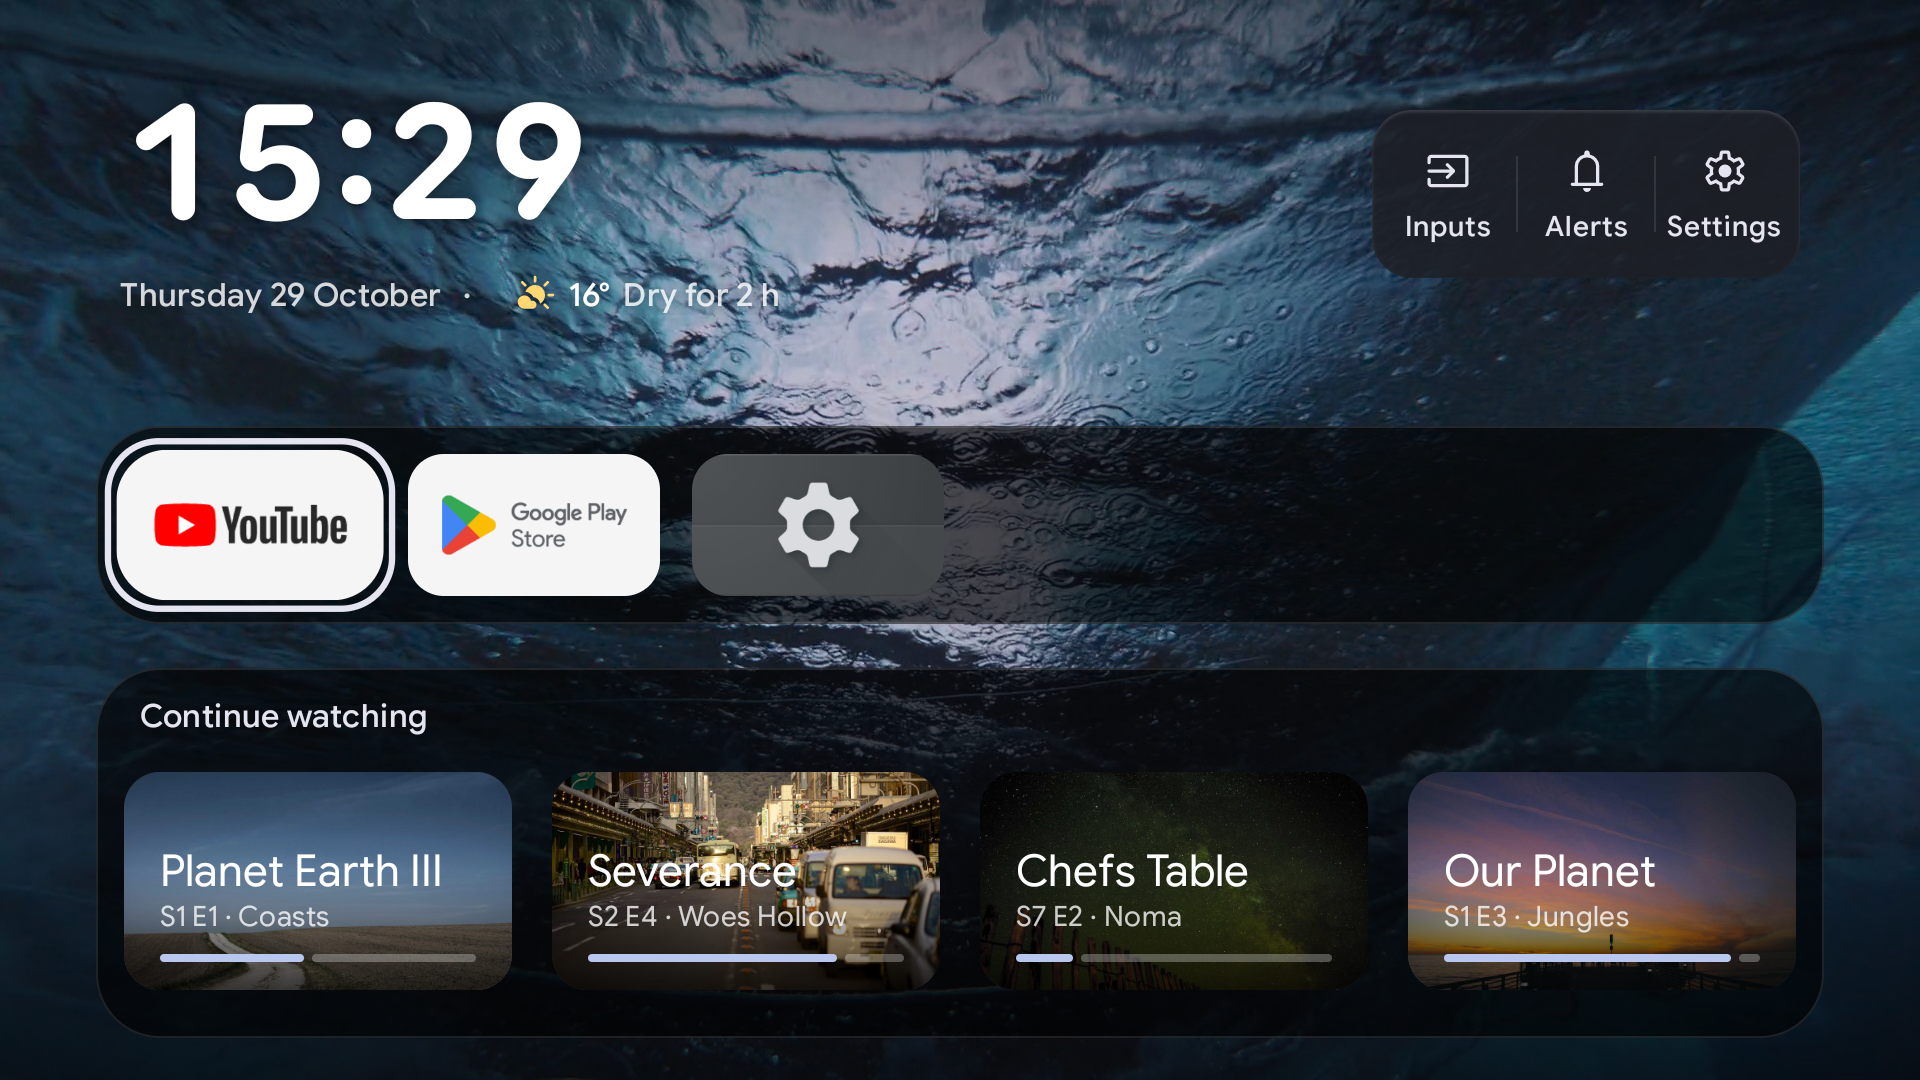
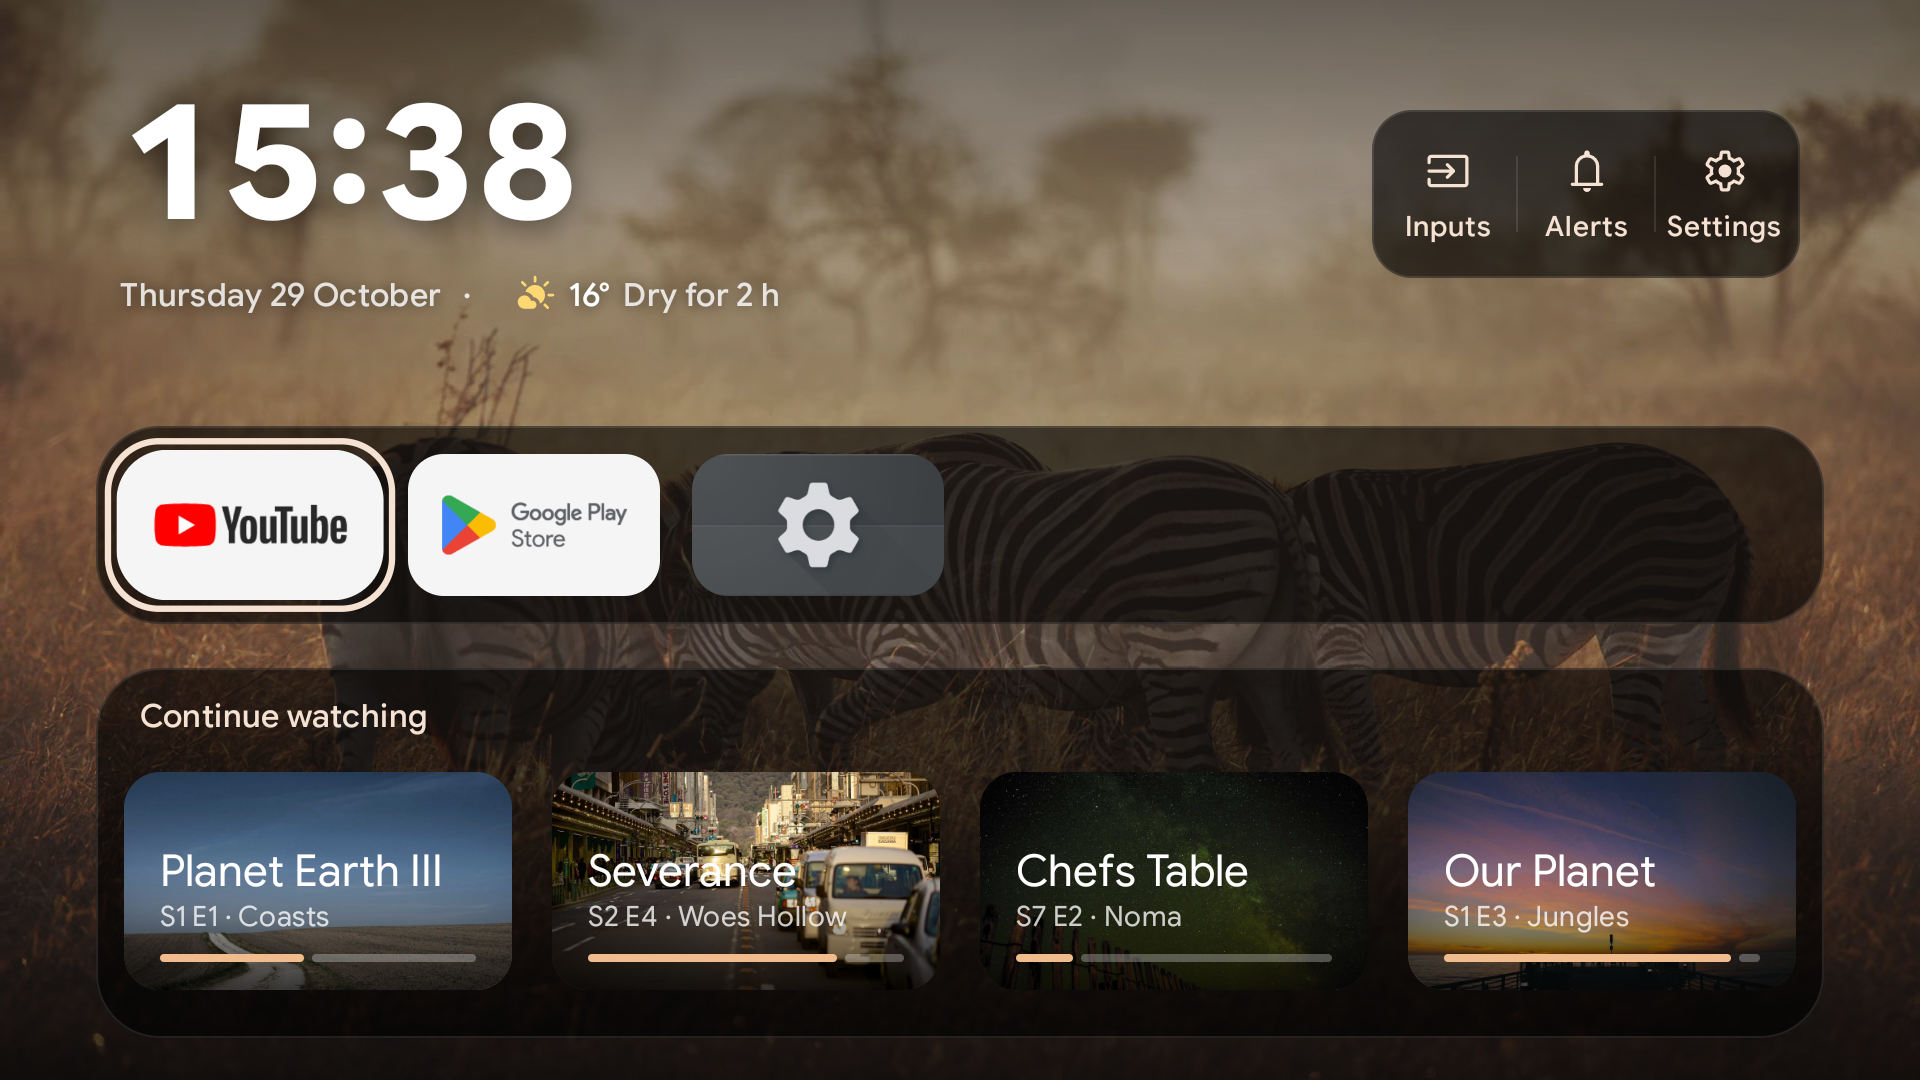
Editorial clock: bold Google Sans Flex without the rounded axis, display optical size

diff --git a/app/src/main/java/nl/julian/aerial/theme/Type.kt b/app/src/main/java/nl/julian/aerial/theme/Type.kt
@@ -72,6 +72,28 @@ val ClockStyle = TextStyle(
     fontFeatureSettings = "tnum",
 )
 
+/**
+ * The editorial top bar's clock: bold Google Sans Flex with the roundness
+ * axis off and the display optical size, so large digits stay crisp rather
+ * than soft. Tabular figures keep the time from shifting as it changes.
+ */
+val DisplayClockStyle = TextStyle(
+    fontFamily = FontFamily(
+        Font(
+            R.font.google_sans_flex,
+            weight = FontWeight(700),
+            variationSettings = FontVariation.Settings(
+                FontVariation.weight(700),
+                FontVariation.Setting("ROND", 0f),
+                FontVariation.Setting("opsz", 144f),
+            ),
+        )
+    ),
+    fontWeight = FontWeight(700),
+    fontSize = 80.sp, lineHeight = 84.sp,
+    fontFeatureSettings = "tnum",
+)
+
 /** Small-caps label over each widget ("WEDNESDAY 28 OCT", "NOW SHOWING", …). */
 val EyebrowStyle = TextStyle(
     fontFamily = GoogleSansFlex, fontWeight = FontWeight(600),

diff --git a/app/src/main/java/nl/julian/aerial/ui/widgets/WidgetBand.kt b/app/src/main/java/nl/julian/aerial/ui/widgets/WidgetBand.kt
@@ -1,5 +1,6 @@
 package nl.julian.aerial.ui.widgets
 
+import nl.julian.aerial.theme.DisplayClockStyle
 import androidx.compose.ui.text.TextStyle
 import androidx.compose.ui.draw.BlurredEdgeTreatment
 import androidx.compose.ui.draw.blur
@@ -470,8 +471,7 @@ private fun EditorialBar(
                 ClockFace.Words -> GlowText(timeInWords(now), MaterialTheme.typography.displaySmall.copy(fontWeight = FontWeight(300)))
                 else -> GlowText(
                     SimpleDateFormat(if (clockFormat.is24Hour(context)) "HH:mm" else "h:mm", Locale.getDefault()).format(now),
-                    // The classic bar's bold, rounded clock digits, at full size.
-                    ClockStyle.copy(fontSize = 80.sp, lineHeight = 84.sp),
+                    DisplayClockStyle,
                 )
             }
             Row(verticalAlignment = Alignment.CenterVertically, horizontalArrangement = Arrangement.spacedBy(10.dp)) {
